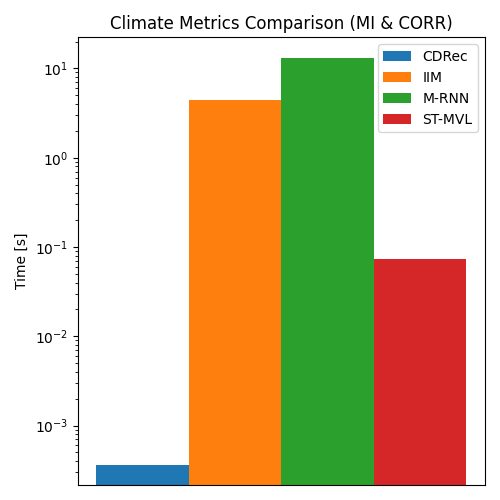
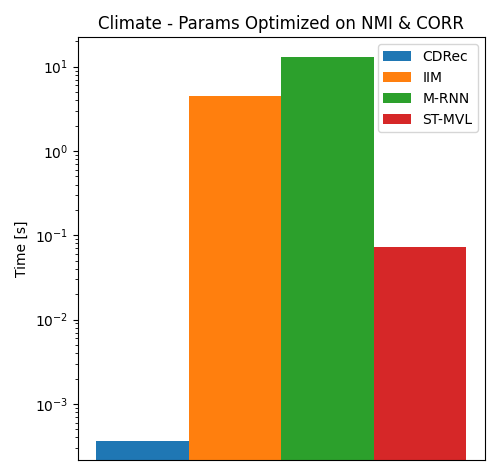
QA: Add uncomment code

diff --git a/Optimizer/successive_halving.py b/Optimizer/successive_halving.py
@@ -68,6 +68,9 @@ def successive_halving(ground_truth_matrix: np.ndarray, obfuscated_matrix: np.nd
     # Define the parameter names for each algorithm
     param_names = alg_params.PARAM_NAMES
 
+    data_length = len(ground_truth_matrix)
+    chunk_size = data_length // num_iterations
+
     # prepare configurations for each algorithm separately
     if algorithm == 'cdrec':
         max_rank = obfuscated_matrix.shape[1] - 1
@@ -97,11 +100,15 @@ def successive_halving(ground_truth_matrix: np.ndarray, obfuscated_matrix: np.nd
         raise ValueError(f"Invalid algorithm: {algorithm}")
 
     for i in range(num_iterations):
+        # Calculate how much data to use in this iteration
+        end_idx = (i + 1) * chunk_size
+        partial_ground_truth = ground_truth_matrix[:end_idx]
+        partial_obfuscated = obfuscated_matrix[:end_idx]
+
         scores = [select_and_average_errors(
-            Optimizer.evaluate_params.evaluate_params(ground_truth_matrix, obfuscated_matrix, algorithm, config,
-                                                      selected_metrics),
-            selected_metrics) for
-            config in configs]
+            Optimizer.evaluate_params.evaluate_params(partial_ground_truth, partial_obfuscated, algorithm, config, selected_metrics),
+            selected_metrics) for config in configs]
+
         top_configs_idx = np.argsort(scores)[:max(1, len(configs) // reduction_factor)]
         configs = [configs[i] for i in top_configs_idx]
         if len(configs) <= 1:

diff --git a/Optimizer/plotter.py b/Optimizer/plotter.py
@@ -415,7 +415,7 @@ def plot_metrics(dataset, metric_used_for_optimization, algorithms_data, metrics
     ind = np.arange(len(metrics_to_use))
     width = 0.35 / len(algorithms_data)
 
-    fig, ax = plt.subplots(figsize=(10 * width_factor, 5))
+    fig, ax = plt.subplots(figsize=(10 * width_factor, 4.75))
     for idx, (algorithm, algo_values) in enumerate(algorithms_data.items()):
         metric_values = [algo_values[metric] for metric in metrics_to_use]
         rects = ax.bar(ind + width * idx, metric_values, width, label=util.mapper(algorithm))
@@ -423,14 +423,14 @@ def plot_metrics(dataset, metric_used_for_optimization, algorithms_data, metrics
     metric_display_labels = ["Time [s]" if metric == "time_taken" else metric.upper() for metric in metrics_to_use]
 
     ax.set_ylabel('Value')
-    ax.set_title(f'{dataset.title()} Metrics Comparison ({metric_used_for_optimization.upper().replace("_", " & ")})')
+    ax.set_title(f'{dataset.title()} - Params Optimized on {util.mapper(metric_used_for_optimization).upper().replace("_", " & ")}')
 
 
     if log_scale:
         ax.set_yscale('log')
         ax.set_ylabel('Time [s]')  # Adjusting the y-label to reflect the log scale
-        ax.set_xticks([],[])
-        ax.set_xticklabels("")
+        ax.set_xticks([])
+        ax.set_xticklabels([])
     else:
         ax.set_xticks(ind + width * (len(algorithms_data) - 1) / 2)
         ax.set_xticklabels(metric_display_labels)

diff --git a/Optimizer/particle_swarm_optimization.py b/Optimizer/particle_swarm_optimization.py
@@ -179,6 +179,8 @@ if __name__ == '__main__':
             # Convert optimization result to be JSON serializable
             optimization_result = util.json_serializable(optimization_result)
 
+            print(f"Optimization result: {optimization_result}")
+
             # Assuming optimization_result is a tuple with (best_params, best_score)
             best_params, best_score = optimization_result
 

diff --git a/Optimizer/bayesian_optimization.py b/Optimizer/bayesian_optimization.py
@@ -78,7 +78,6 @@ def bayesian_optimization(ground_truth_matrix: np.ndarray, obfuscated_matrix: np
     return optimal_params_dict, np.min(optimizer.yi)
 
 
-
 if __name__ == '__main__':
     # algo = "cdrec"  # choose an algorithm to optimize
     # raw_matrix = np.loadtxt("../Datasets/bafu/raw_matrices/BAFU_tiny.txt", delimiter=" ", )

diff --git a/Optimizer/util.py b/Optimizer/util.py
@@ -89,6 +89,8 @@ def mapper(input_string: str):
         return "Epsilon"
     elif input_string == "iters":
         return "Iterations"
+    elif input_string == "mi_corr":
+        return "NMI_CORR"
     else:
         return input_string.capitalize()
 
